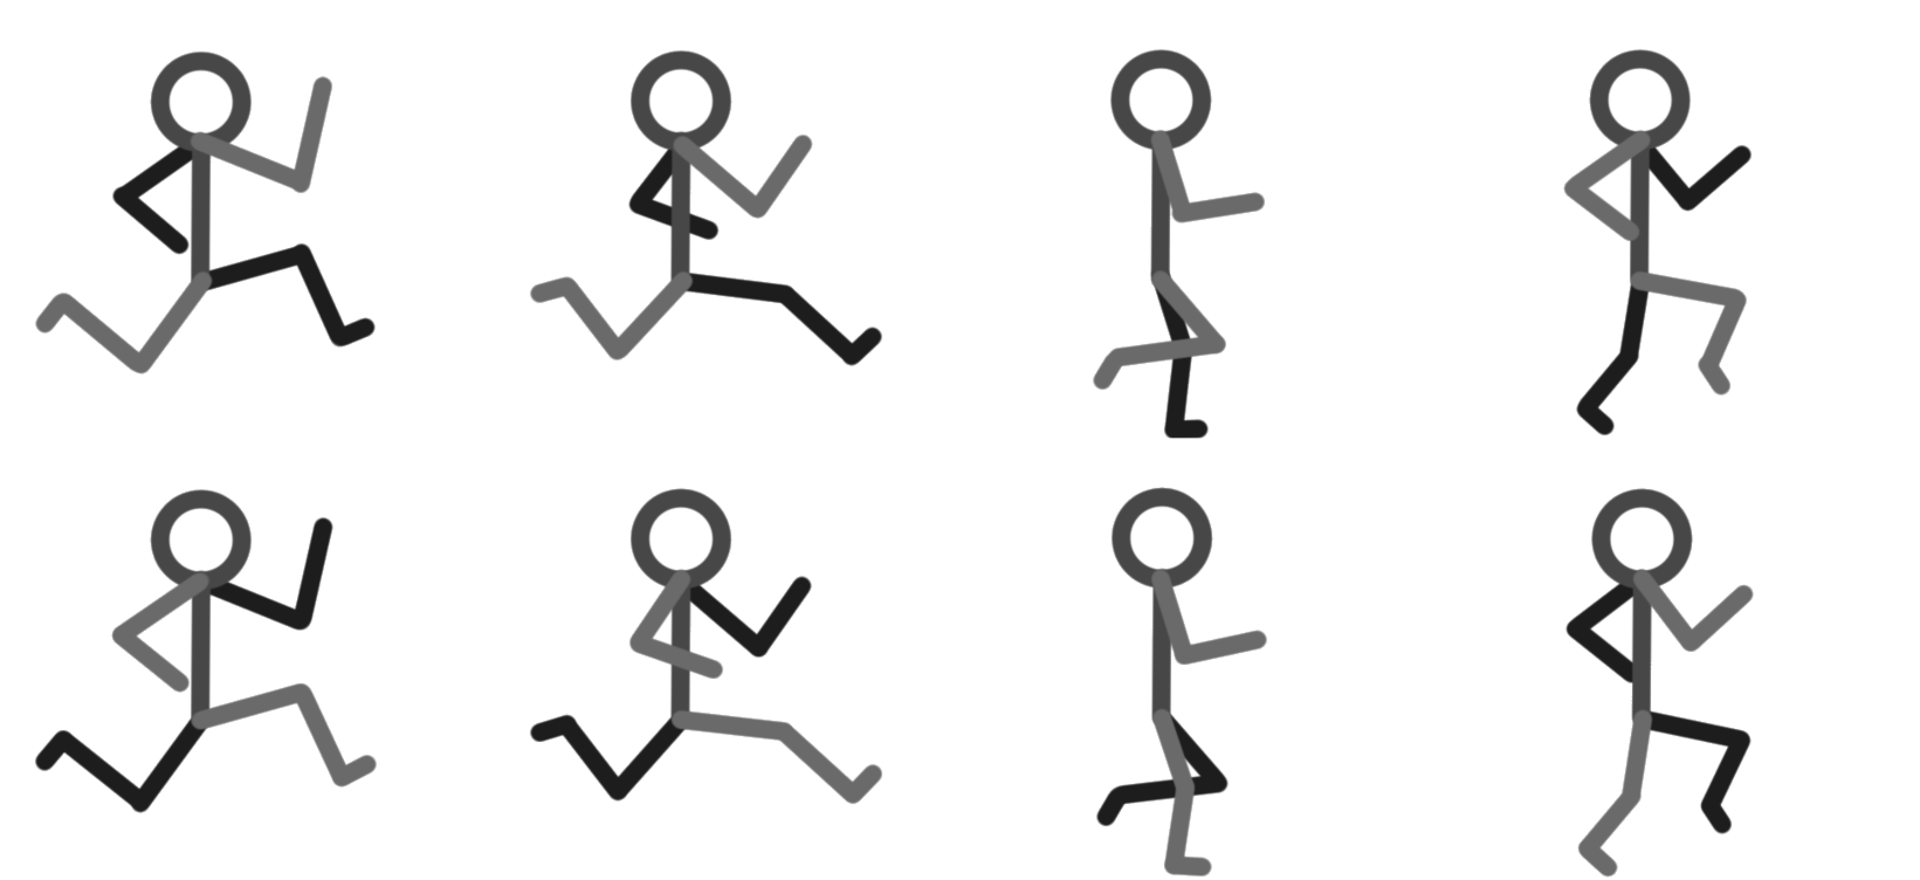
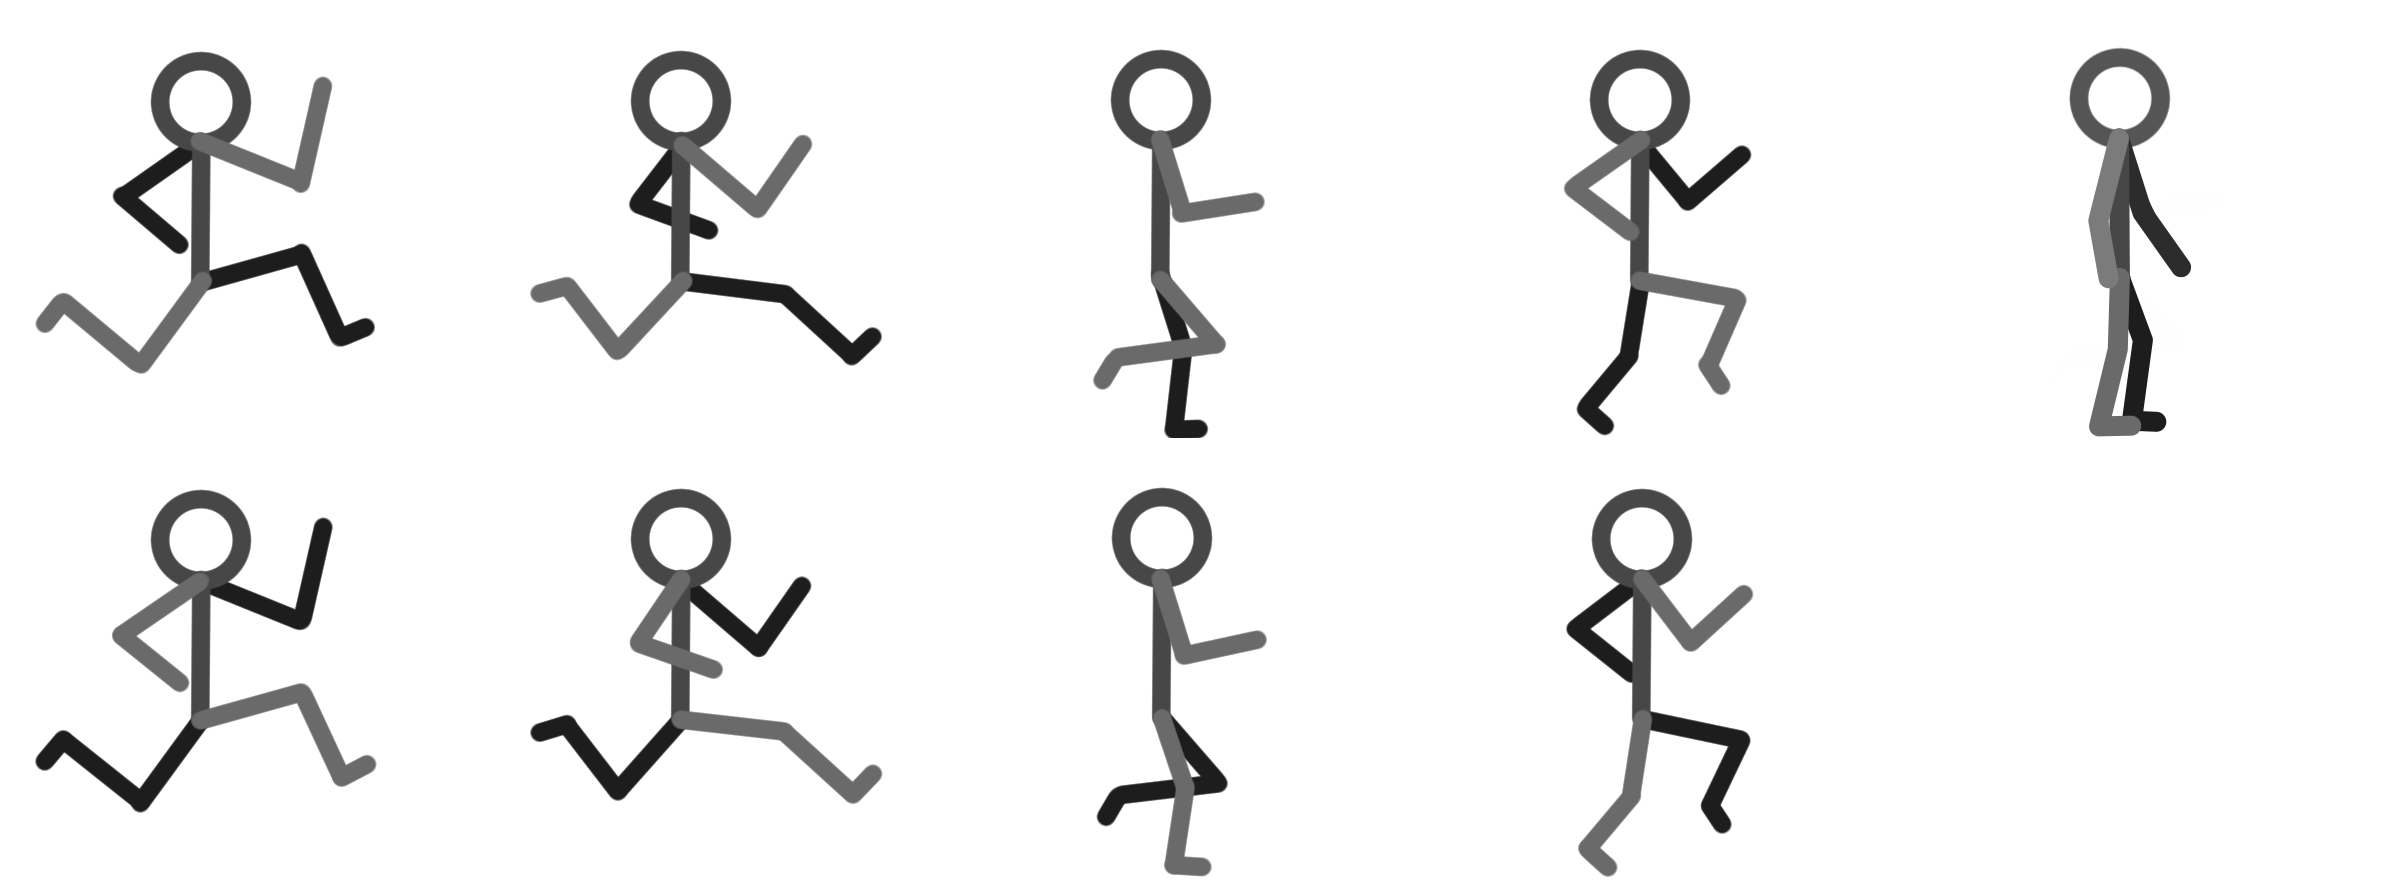
added better art

diff --git a/src/Player.cpp b/src/Player.cpp
@@ -13,7 +13,9 @@ std::vector<sf::IntRect> drawings = {sf::IntRect(0,    0,   480,  440),
                                      sf::IntRect(0,    440, 480,  440),
                                      sf::IntRect(480,  440, 480,  440),
                                      sf::IntRect(960,  440, 480, 440),
-                                     sf::IntRect(1440, 440, 480, 440)};
+                                     sf::IntRect(1440, 440, 480, 440),
+                                     sf::IntRect(1920, 0,   480, 440)};
+
 
 Player::Player(b2World& world, float positionX, float positionY, sf::Texture& texture, float scale)
 {
@@ -131,7 +133,7 @@ void Player::animate()
     }
     else if (drawingIndex != 7 and drawingIndex != 3)
     {
-        drawingIndex = 3;
+        drawingIndex = 8;
         graphicBody.setTextureRect(drawings.at(drawingIndex));
     }
 }
@@ -151,6 +153,6 @@ void Player::animateRight()
 void Player::animateRun()
 {
     drawingIndex++;
-    if (drawingIndex == 8) drawingIndex = 1;
+    if (drawingIndex == 9) drawingIndex = 1;
     graphicBody.setTextureRect(drawings.at(drawingIndex));
 }

diff --git a/include/Player.hpp b/include/Player.hpp
@@ -21,7 +21,7 @@ private:
     void animateLeft();
     void animateRight();
     void move(bool predicate, float force);
-    int drawingIndex = 3;
+    int drawingIndex = 8;
     sf::Clock clock;
     float playerScale;
 
